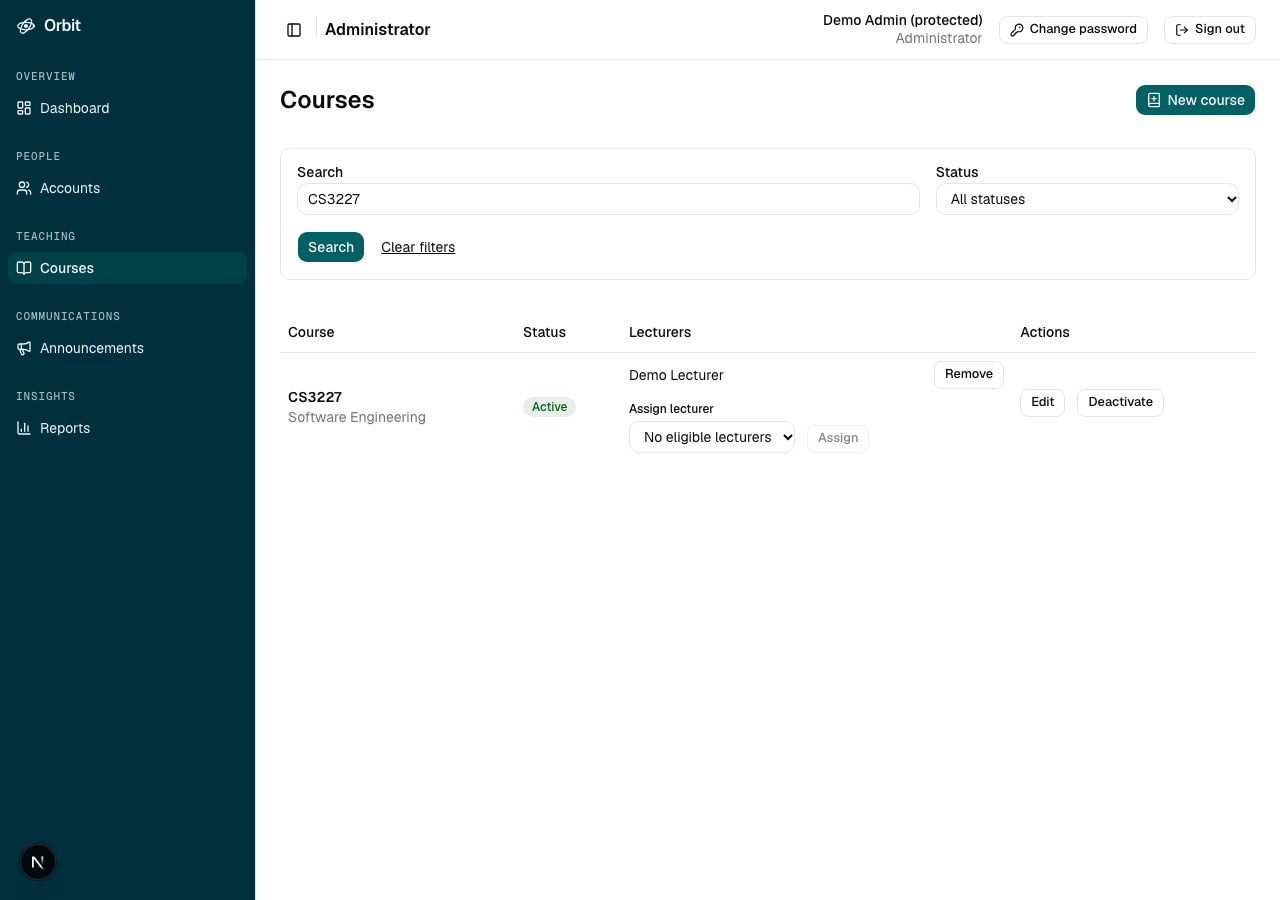
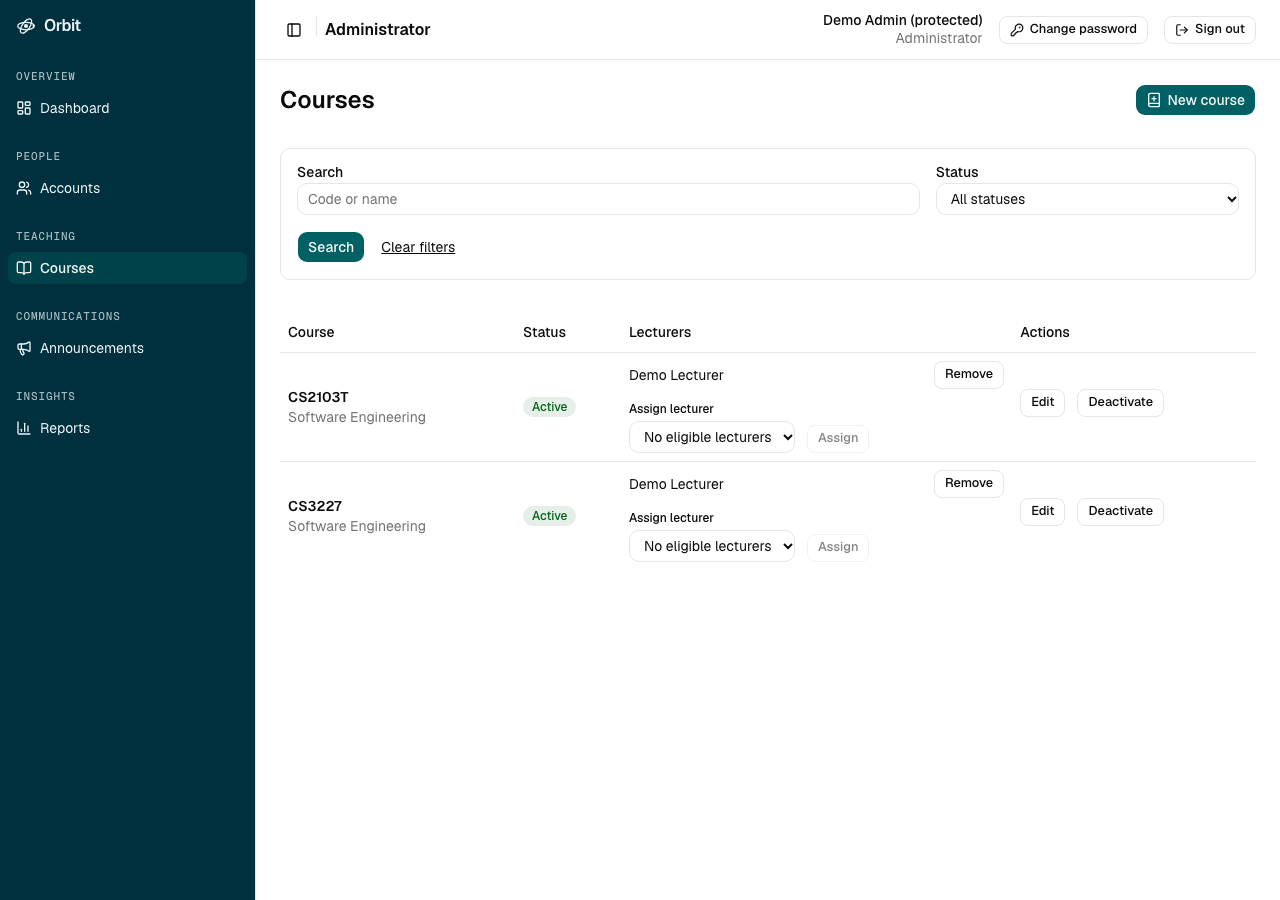
Retake the guide screenshots with realistic demo data
Seed temporary slots, bookings in every status and announcements for the
screenshots, then remove them, and hide the dev-mode badge.

diff --git a/docs/UserGuide.md b/docs/UserGuide.md
@@ -123,7 +123,7 @@ course, lecturer, start time, status badge and topic, and a **View booking** lin
 page. If you have none yet, the page shows **You have no consultation bookings yet.** with a link
 to browse slots.
 
-![My bookings (empty state)](images/student-bookings.png)
+![My bookings, showing each status](images/student-bookings.png)
 
 On a booking's detail page (`/student/bookings/[bookingId]`) you can see its full course, lecturer,
 start/end time, status, topic, questions and, if rejected, the lecturer's **Rejection reason**.
@@ -334,7 +334,7 @@ each course.
 - Assigning a lecturer is refused for an inactive course, a deactivated account, or an account that
   is not a lecturer; assigning the same active pairing twice is refused as a duplicate.
 
-![Administrator courses (filtered to one course)](images/admin-courses.png)
+![Administrator courses](images/admin-courses.png)
 
 ### Guidelines and announcements
 
@@ -356,7 +356,7 @@ each course.
 - If nothing has been created yet, the page shows **No guidelines or announcements yet.** with a
   **Create one** link that opens the same dialog.
 
-![Administrator announcements (empty) and the New announcement dialog](images/admin-announcements.png)
+![Administrator announcements, with published items and a draft](images/admin-announcements.png)
 ![Create guideline or announcement dialog](images/admin-new-announcement-dialog.png)
 
 ### Reports and AI activity summary
